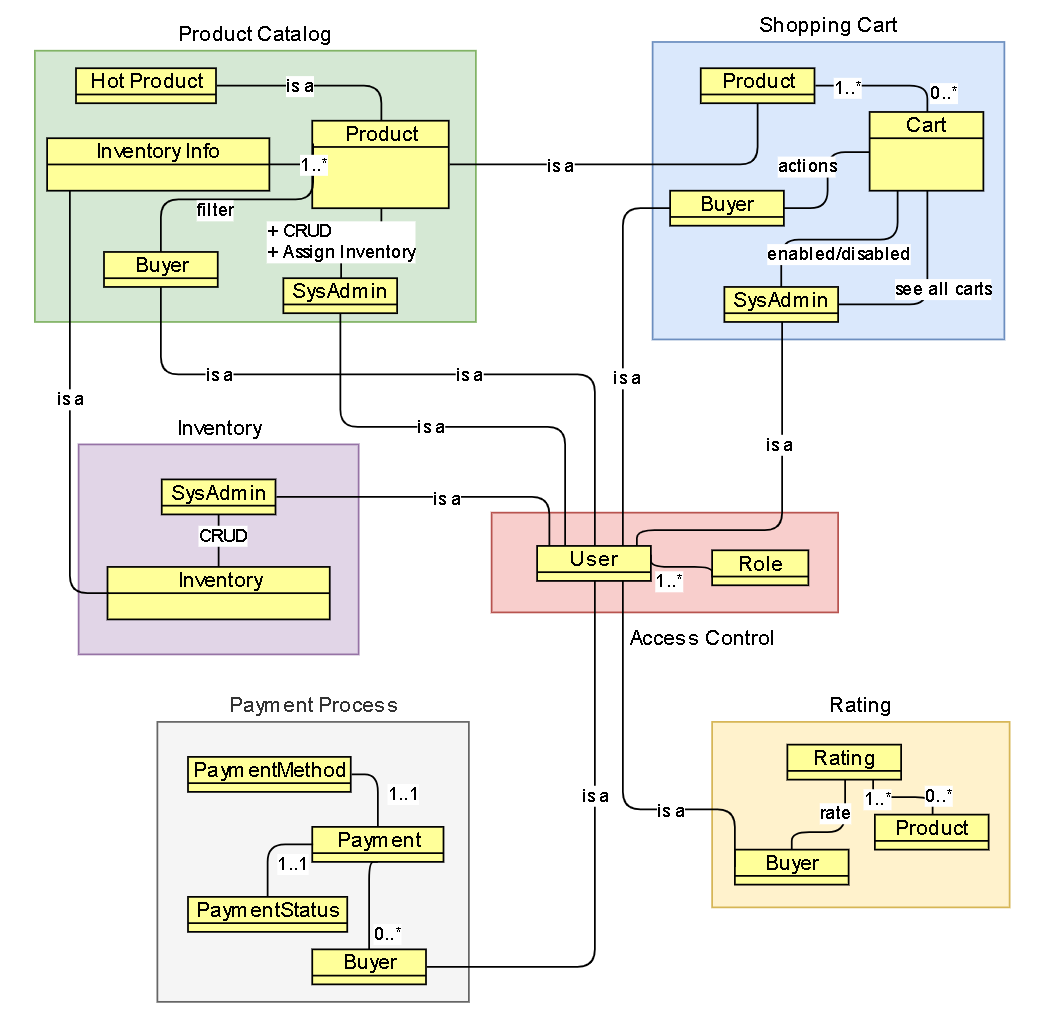
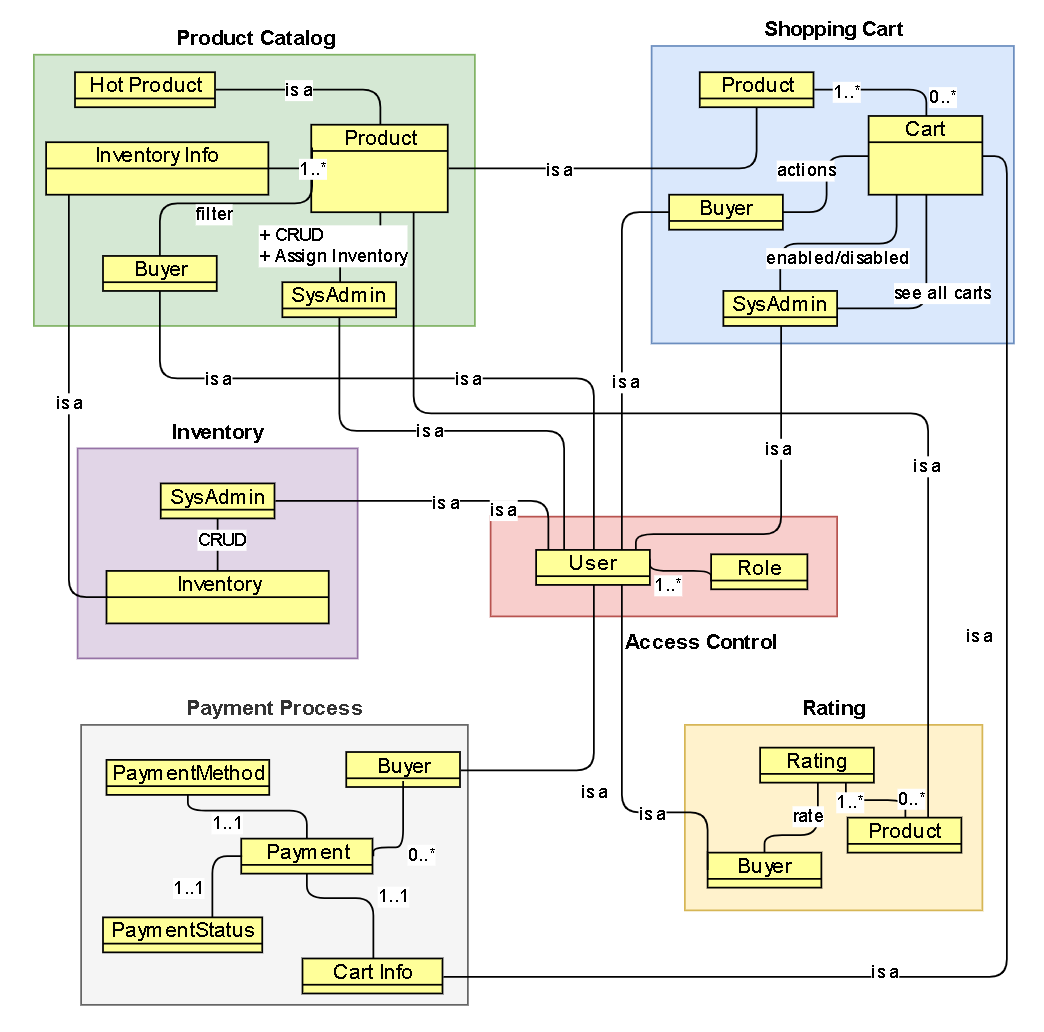
updated usecase view

diff --git a/docs/model-microservices/README.md b/docs/model-microservices/README.md
@@ -153,53 +153,90 @@ CoolStore Website has the basic features: Product Catalog, Shopping Cart, Paymen
 
 ## Usecase View
 
-TODO
+### Product Catalog
+
+![](/coolstore-microservices/usecases-product-catalog.png)
+
+### Shopping Cart
+
+![](/coolstore-microservices/usecases-shopping-cart.png)
+
+### Payment Process
+
+![](/coolstore-microservices/usecases-payment-process.png)
+
+### Inventory
+
+![](/coolstore-microservices/usecases-inventory.png)
+
+### Rating
+
+![](/coolstore-microservices/usecases-rating.png)
+
+### Access Control
+
+![](/coolstore-microservices/usecases-access-control.png)
 
 ## Event Storming 1: Event
 
 ### Product Catalog
 
-- ProductListDisplayed (filter + sorting)
-- ProductDisplayed
-- ProductCreated
-- ProductUpdated
-- ProductDeleted
-- InventoryAssigned
+- [Buyer] get products by filtering and sorting on price and name
+  - ProductListDisplayed (filter + sorting)
+- [Buyer] get the detail of specific product
+  - ProductDisplayed
+- [SysAdmin] product management
+  - ProductListDisplayed
+  - ProductCreated
+  - ProductUpdated
+  - ProductDeleted
+- [SysAdmin] update product with inventory
+  - InventoryAssigned
 
 ### Shopping Cart
 
-- ProductInShoppingCartAdded
-- ShoppingCartWithProductsDisplayed
-- NumberOfProductInShoppingCartChanged
-- ProductInShoppingCartDeleted
-- ShoppingCartCheckedOut
-- BuyersShoppingCartDisplayed
-- ShoppingCartEnabled
-- ShoppingCartDisabled
+- [Buyer] create the shopping cart with product
+  - ShoppingCartWithProductCreated
+- [Buyer] get shopping cart with products
+  - ShoppingCartWithProductsDisplayed
+- [Buyer] update the amount of product in the shopping cart
+  - AmountOfProductInShoppingCartUpdated
+- [Buyer] delete product in the shopping cart
+  - ProductInShoppingCartDeleted
+- [Buyer] check out the shopping cart
+  - ShoppingCartCheckedOut
+- [SysAdmin] get shopping cart of buyers
+  - BuyersShoppingCartDisplayed
+- [SysAdmin] update enabled/disabled shopping cart of buyer
+  - ShoppingCartEnabled
+  - ShoppingCartDisabled
+
+### Payment Process
+
+- [System]
+  - ProductsValidated
+  - PaymentProcessed
+  - EmailSent
 
 ### Inventory
 
-- InventoryListDisplayed
-- InventoryCreated
-- InventoryUpdated
-- InventoryDeleted
+- [SysAdmin] inventory management
+  - InventoryListDisplayed
+  - InventoryCreated
+  - InventoryUpdated
+  - InventoryDeleted
 
 ### Rating
 
-- ProductRated
+- [Buyer] create rating for product
+  - ProductRated
 
 ### Access Control
 
-- BuyerCreated
-- SysAdminCreated
-
-### System Control
-
-- ProductSeeded
-- InventorySeeded
-- RatingSeeded
-- ServiceSeededDisplayed
-- ServiceHealthyDisplayed
+- [User] log in into the system
+  - UserLoggedOn
+- [User] log out of the system
+  - UserLoggedOut
 
 ## Event Storming 2: Command
 
